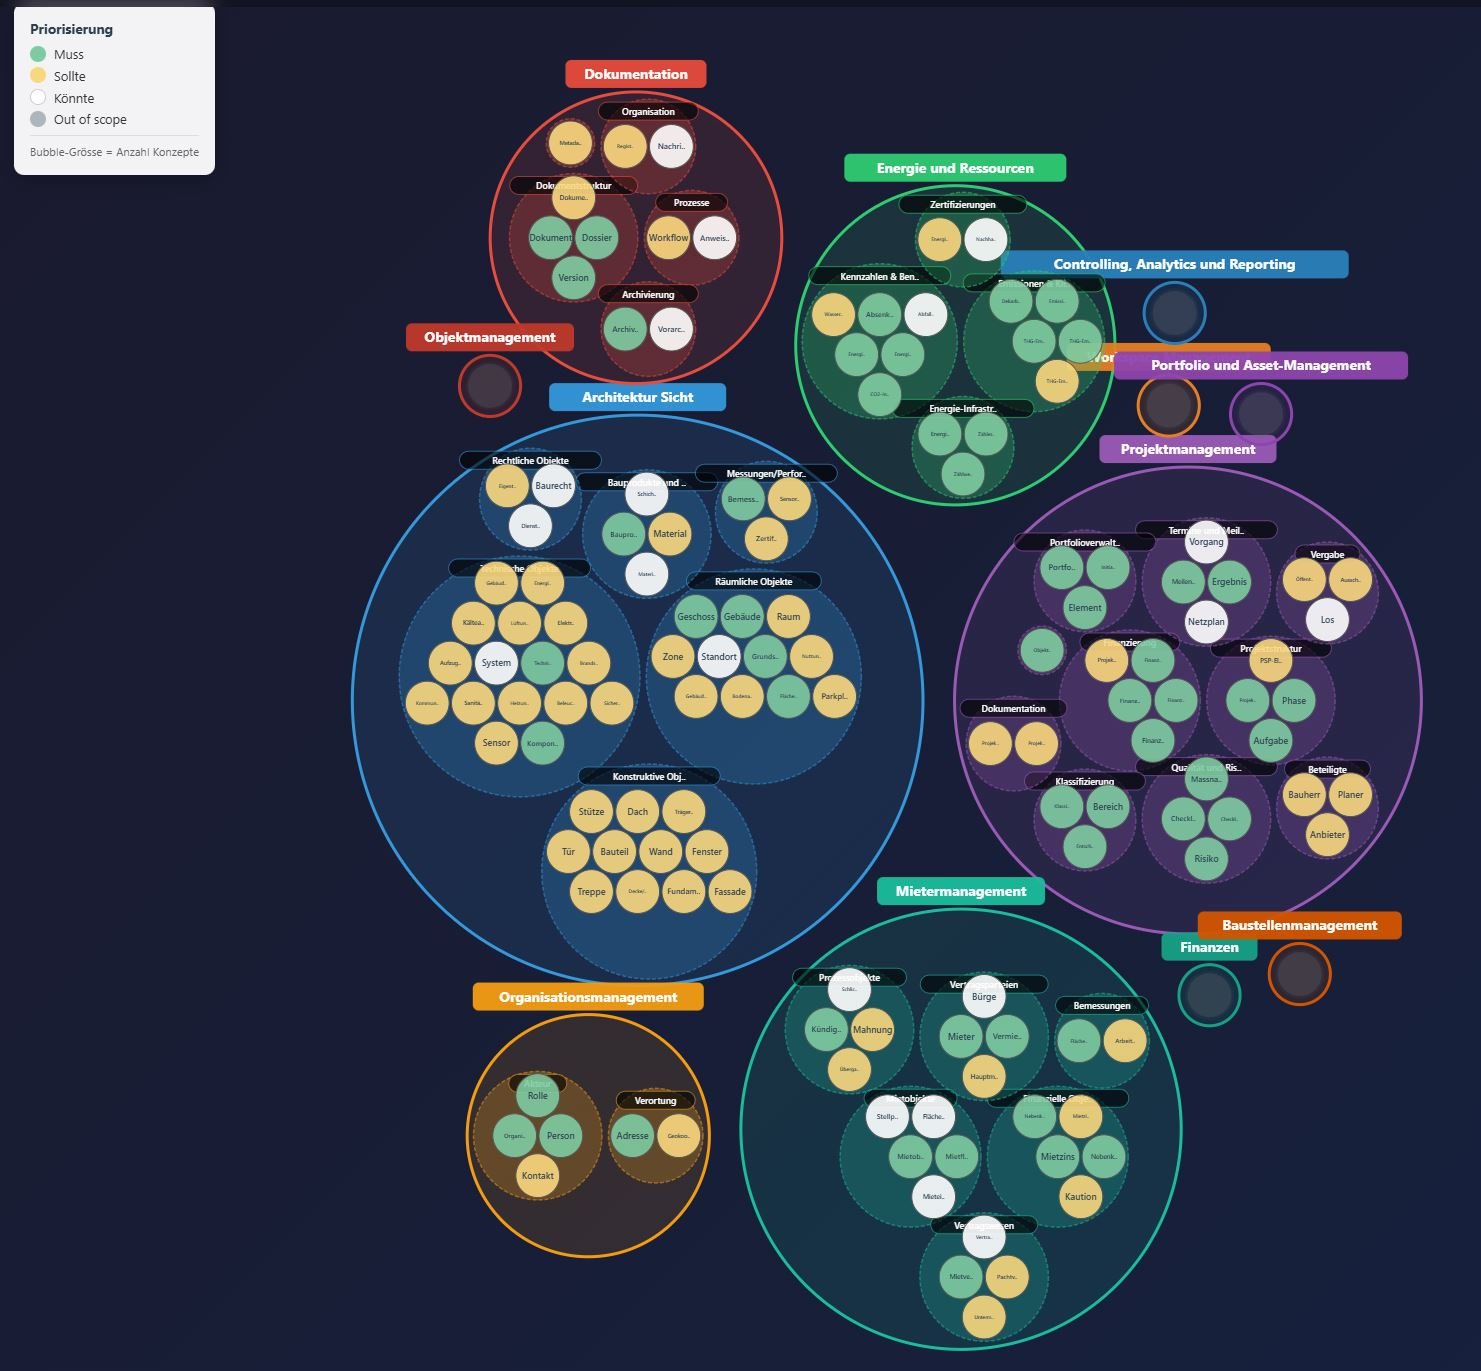
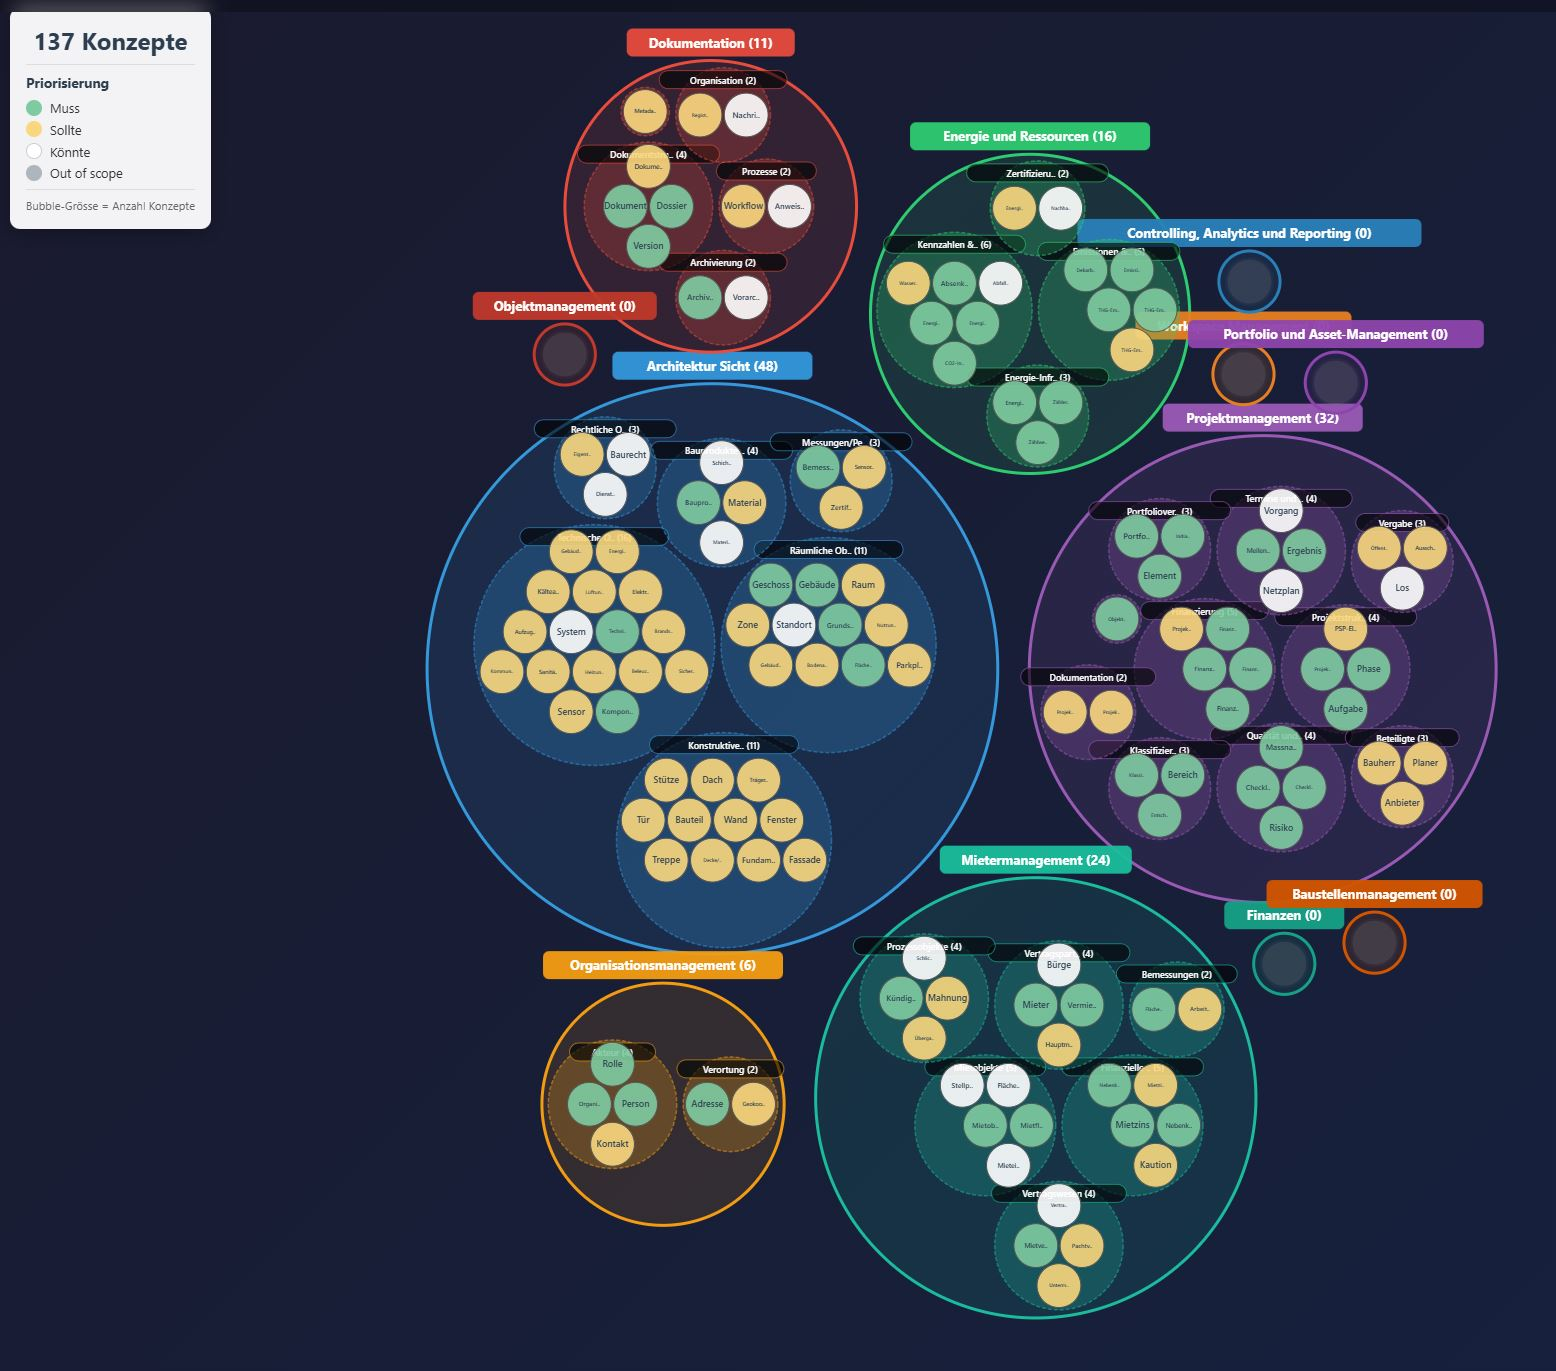
Update

diff --git a/visualization/app.js b/visualization/app.js
@@ -160,6 +160,17 @@
 
         pack(root);
 
+        // Calculate total concepts
+        let totalConcepts = 0;
+        domainData.domains.forEach(d => {
+            if (d.groups) {
+                d.groups.forEach(g => {
+                    if (g.concepts) totalConcepts += g.concepts.length;
+                });
+            }
+        });
+        document.getElementById('legendTotal').textContent = totalConcepts + ' Konzepte';
+
         // Create container group with offset for header
         const g = zoomGroup.append('g')
             .attr('transform', 'translate(20, 70)');
@@ -190,25 +201,47 @@
         const labels = domainGroups.append('g')
             .attr('transform', d => `translate(0, ${-d.r - 18})`);
 
-        // Label background - sized to fit full text
+        // Helper to count concepts in domain
+        function countDomainConcepts(domain) {
+            let count = 0;
+            if (domain.groups) {
+                domain.groups.forEach(g => {
+                    if (g.concepts) count += g.concepts.length;
+                });
+            }
+            return count;
+        }
+
+        // Label background - sized to fit text with count
         labels.append('rect')
-            .attr('x', d => -(d.data.name.length * 4.5 + 12))
+            .attr('x', d => {
+                const count = countDomainConcepts(d.data.domain);
+                const text = d.data.name + ' (' + count + ')';
+                return -(text.length * 4 + 12);
+            })
             .attr('y', -14)
-            .attr('width', d => d.data.name.length * 9 + 24)
+            .attr('width', d => {
+                const count = countDomainConcepts(d.data.domain);
+                const text = d.data.name + ' (' + count + ')';
+                return text.length * 8 + 24;
+            })
             .attr('height', 28)
             .attr('rx', 6)
             .attr('fill', d => getDomainColor(d.data.id))
             .attr('opacity', 0.95);
 
-        // Label text - full name, bigger font
+        // Label text - full name with count
         labels.append('text')
             .attr('y', 5)
             .attr('text-anchor', 'middle')
             .attr('fill', 'white')
-            .attr('font-size', '14px')
+            .attr('font-size', '13px')
             .attr('font-weight', 'bold')
             .style('pointer-events', 'none')
-            .text(d => d.data.name);
+            .text(d => {
+                const count = countDomainConcepts(d.data.domain);
+                return d.data.name + ' (' + count + ')';
+            });
 
         // Draw group circles (depth 2)
         const groupNodes = root.descendants().filter(d => d.depth === 2);
@@ -234,15 +267,22 @@
             .attr('class', 'group-label')
             .attr('transform', d => `translate(0, ${-d.r + 12})`);
 
+        // Helper to get group label text with count
+        function getGroupLabelText(d) {
+            const count = d.data.children ? d.data.children.length : 0;
+            const baseName = d.data.name.length > 14 ? d.data.name.substring(0, 12) + '..' : d.data.name;
+            return baseName + ' (' + count + ')';
+        }
+
         // Label background pill
         groupLabels.append('rect')
             .attr('x', d => {
-                const text = d.data.name.length > 18 ? d.data.name.substring(0, 16) + '..' : d.data.name;
+                const text = getGroupLabelText(d);
                 return -(text.length * 3.5 + 8);
             })
             .attr('y', -9)
             .attr('width', d => {
-                const text = d.data.name.length > 18 ? d.data.name.substring(0, 16) + '..' : d.data.name;
+                const text = getGroupLabelText(d);
                 return text.length * 7 + 16;
             })
             .attr('height', 18)
@@ -259,12 +299,7 @@
             .attr('font-size', '9px')
             .attr('font-weight', '500')
             .style('pointer-events', 'none')
-            .text(d => {
-                if (d.data.name.length > 18) {
-                    return d.data.name.substring(0, 16) + '..';
-                }
-                return d.data.name;
-            });
+            .text(d => getGroupLabelText(d));
 
         // Draw concept circles (depth 3)
         const conceptNodes = root.descendants().filter(d => d.depth === 3);

diff --git a/visualization/index.html b/visualization/index.html
@@ -60,6 +60,20 @@
             box-shadow: 0 4px 20px rgba(0,0,0,0.3);
         }
 
+        .legend-total {
+            font-size: 1.5rem;
+            font-weight: 700;
+            color: #2c3e50;
+            text-align: center;
+            margin-bottom: 0.5rem;
+        }
+
+        .legend-divider {
+            height: 1px;
+            background: #ddd;
+            margin: 0.75rem 0;
+        }
+
         .legend h3 {
             font-size: 0.85rem;
             margin-bottom: 0.5rem;
@@ -435,6 +449,8 @@
     </div>
 
     <div class="legend">
+        <div class="legend-total" id="legendTotal">0 Konzepte</div>
+        <div class="legend-divider"></div>
         <h3>Priorisierung</h3>
         <div class="legend-item">
             <div class="legend-color muss"></div>
